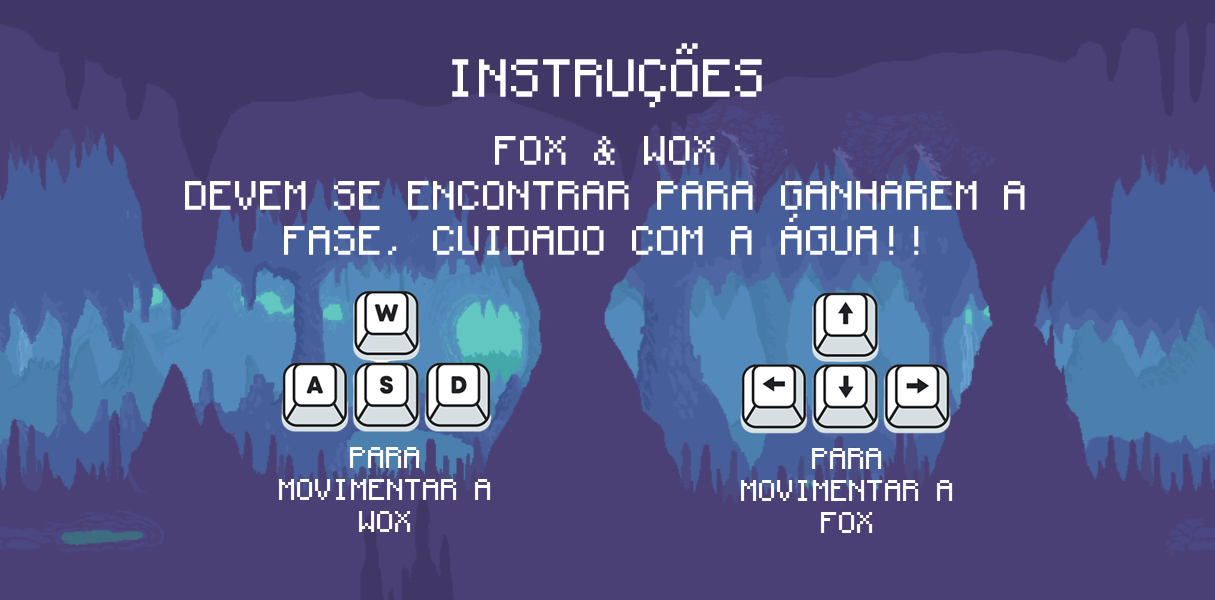
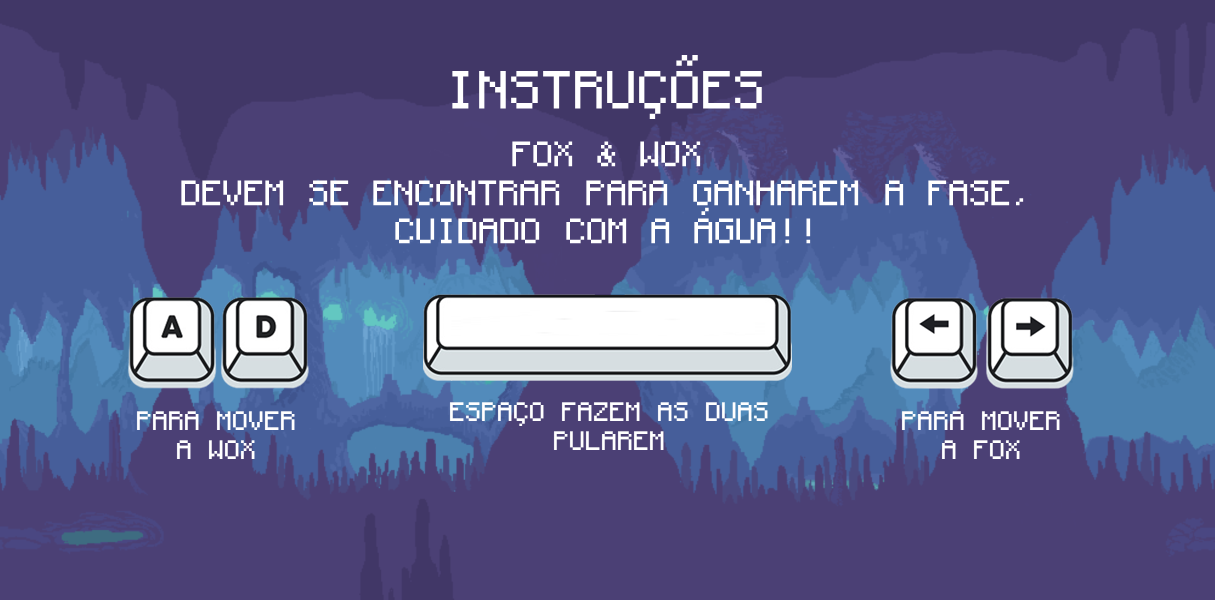
Mudei a lógica de pulo

Changed region(s): [[0.0914, 0.48, 0.8831, 0.9], [0.1218, 0.06, 0.8527, 0.45], [0.2132, 0.75, 0.3959, 0.9]]

diff --git a/tela_jogo.py b/tela_jogo.py
@@ -112,16 +112,19 @@ def tela_jogo(screen):
 
 
                     # Verifica qual tecla foi apertada, comandos raposa vermelha.
-                    if event.key == pygame.K_UP:
+                    if event.key == pygame.K_SPACE:
                         fox.jump()
+                        wox.jump()
+                    # if event.key == pygame.K_UP:
+                    #     fox.jump()
                     if event.key == pygame.K_LEFT:
                         fox.speedx -= VELO_X
                     if event.key == pygame.K_RIGHT:
                         fox.speedx += VELO_X
                     
                     # Verifica qual tecla foi apertada, comandos raposa azul.
-                    if event.key == pygame.K_w:
-                        wox.jump()
+                    # if event.key == pygame.K_w:
+                    #     wox.jump()
                     if event.key == pygame.K_a:
                         wox.speedx -= VELO_X
                     if event.key == pygame.K_d:
